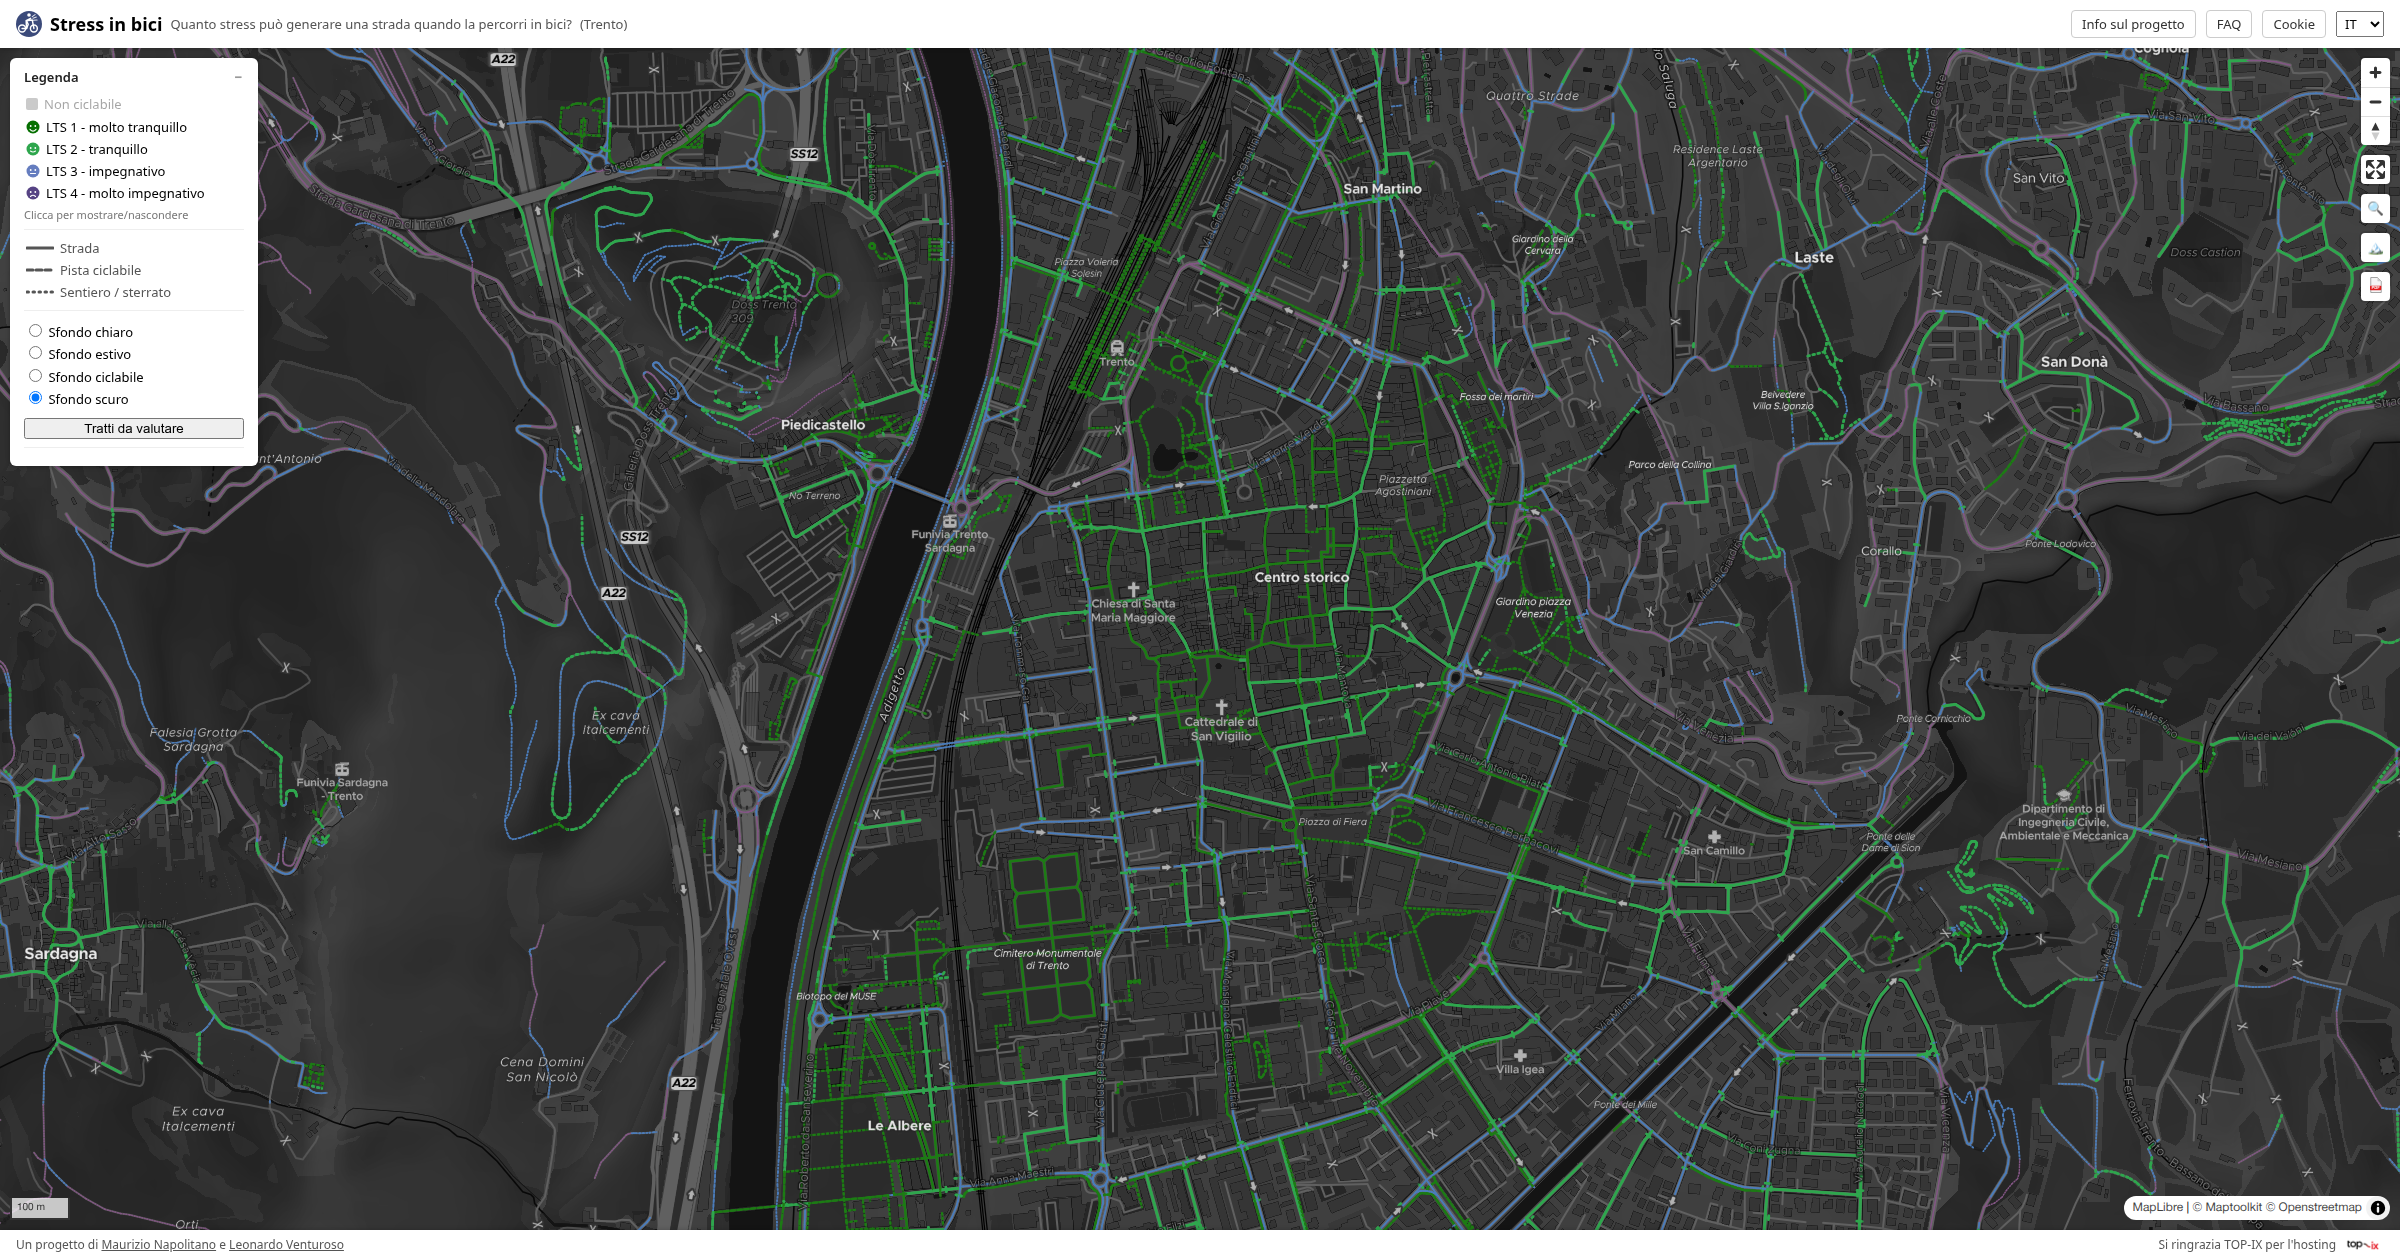
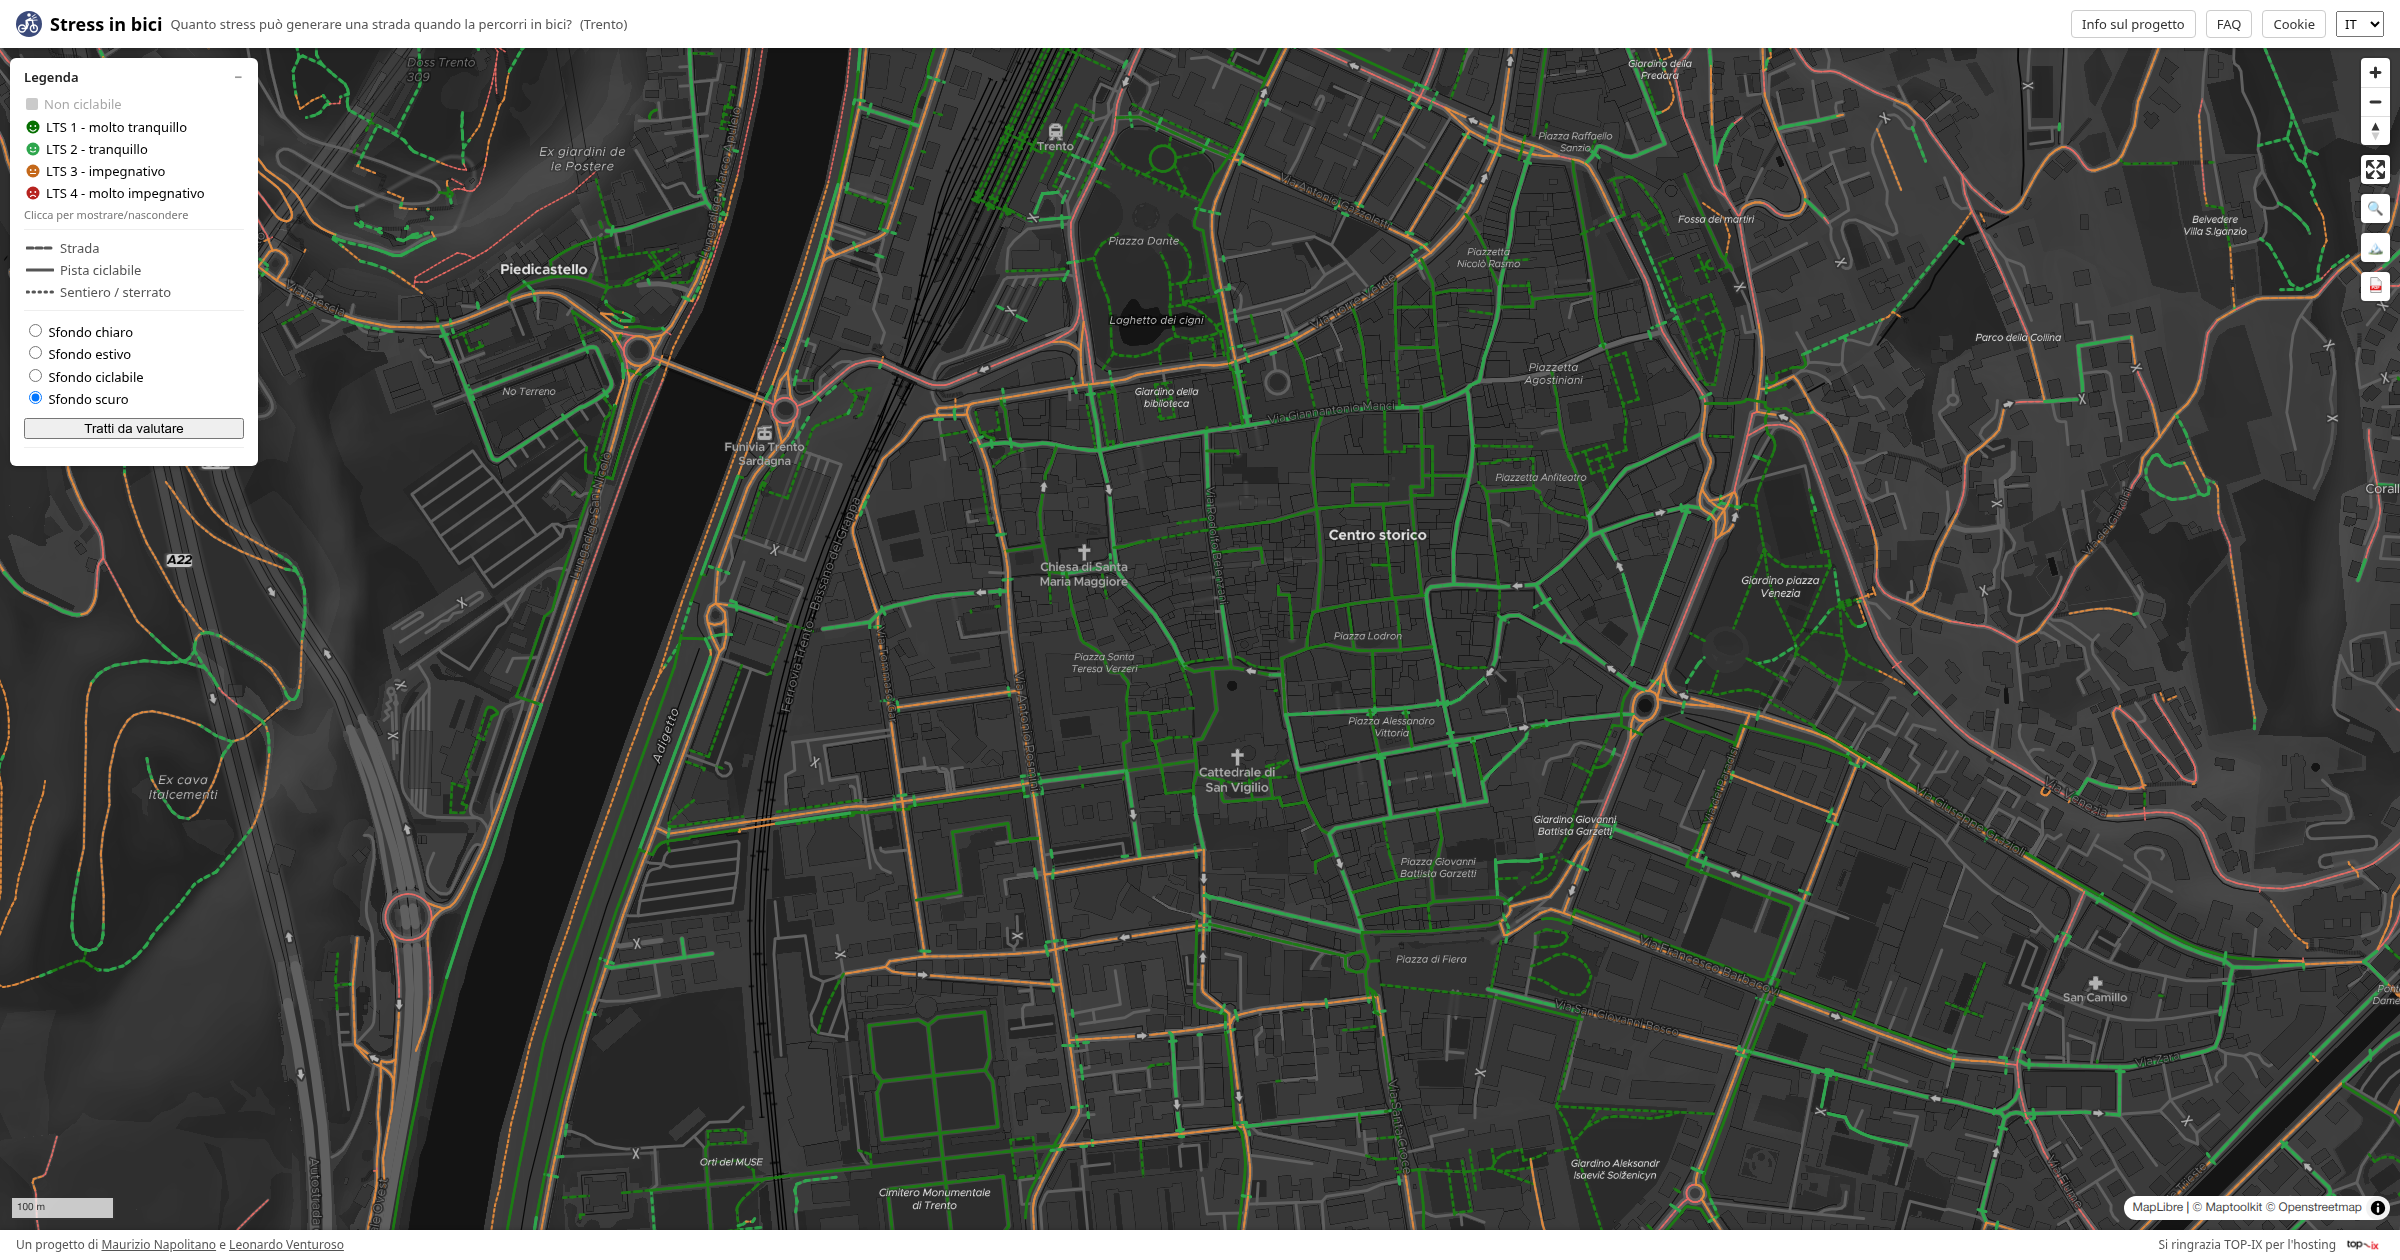
update

diff --git a/web/app.js b/web/app.js
@@ -659,44 +659,31 @@ document.querySelectorAll('input[name="basemap"]').forEach((radio) => {
 // I18N[currentLang].lts, so a language switch doesn't need to touch the
 // colours at all.
 //
-// Colorblind-safe (validated against simulated deuteranopia/protanopia/
-// tritanopia - see dataviz skill's validate_palette.js), and built as two
-// families rather than four independent hues: 1/2 are both green ("the
-// calm pair"), 3/4 are both purple ("the effortful pair") - deliberately
-// avoiding red for LTS4 since a lot of what lands there is a structural
-// street (a state road, a bridge) nobody's about to reroute, so "danger
-// red" reads as an alarm with no fix rather than "give this one a
-// separated bike/foot facility", which is the actual intervention.
-//
-// Green carries more chroma (~0.16) than purple (~0.105) on purpose: sRGB's
-// gamut is simply smaller in the green/teal region than in the blue-violet
-// one, so a purple and a green at the *same* nominal OKLCH chroma don't
-// read as equally vivid - the purple looks louder because it's using less
-// of its own headroom. Green is the answer to the map's actual question
-// ("where's it comfortable to bike"), so it gets pushed toward its gamut
-// ceiling to read as the protagonist; purple is kept closer to the chroma
-// floor so it recedes instead of competing for attention. (This replaced
-// an earlier version where 2 leaned teal and 3 leaned blue-violet so the
-// 2<->3 boundary would read as a continuum - that pulled 2 away from pure
-// green and capped how vivid it could get, which was the direct cause of
-// the imbalance; the boundary is now a full ΔE 23.9 apart, same as any
-// other adjacent pair.)
+// Traffic-light style green/green/orange/red, matching the reference
+// legend the map is meant to echo. Checked against simulated
+// deuteranopia/protanopia rather than assumed safe: a fully-saturated
+// orange+red pair (e.g. #E07C1C/#E4322F) collapses under red-green CVD -
+// LTS3 vs LTS4 drops to a simulated RGB distance of ~33-43, because orange
+// and red are hue-neighbours that both project onto the same remaining
+// blue-yellow axis. Darkening/desaturating both a step (LTS3 #C4681A,
+// LTS4 #B7231F) recovers most of that separation (~48-55 simulated) while
+// still clearing 3:1 contrast on white for all four classes. It's not as
+// safe as the blue/violet scheme this replaced, but it's a floor-band
+// pass rather than a fail, and the map has a second, colour-independent
+// channel for the same distinction: the face icons' mouth shape
+// (LTS_FACE_MOUTHS further down) still reads 1-4 correctly with no colour
+// vision at all.
 const LTS_COLORS = {
-  "1": "#056F00", "2": "#2EA64D", "3": "#657DBF", "4": "#564384", "0": "#6B6B6B",
+  "1": "#056F00", "2": "#2EA64D", "3": "#C4681A", "4": "#B7231F", "0": "#6B6B6B",
 };
 // Dark-basemap variants for the on-map line layer only (legend/popup/PDF
 // swatches always show the LTS_COLORS above, regardless of basemap - see
-// buildLtsLineColorExpression). "1" and "4" dip under 3:1 contrast against
-// the dark map style and need lightening; "2" and "3" already clear it
-// unswapped. 3 and 4 (both purple) additionally fight each other for room
-// in the dark style's narrower lightness band once 4 is lightened - nudging
-// 4's dark variant warmer (instead of lightening it in place at the same
-// hue) buys back ΔE 13.1 normal-vision / 8.3 CVD (a floor-band pass, not a
-// fail - legitimate here because of the same face-icon secondary encoding
-// as the 2<->3 note above, LTS_FACE_MOUTHS further down).
+// buildLtsLineColorExpression). All four of 1/3/4 dip under 3:1 contrast
+// against the dark map style's ~#3B3B3B background and need lightening;
+// "2" already clears it unswapped.
 const LTS1_DARK_COLOR = "#1C7B14";
-const LTS3_DARK_COLOR = "#4B7CBA";
-const LTS4_DARK_COLOR = "#835685";
+const LTS3_DARK_COLOR = "#E08A3E";
+const LTS4_DARK_COLOR = "#E86A64";
 const LTS_FALLBACK_COLOR = "#BDBDBD";
 
 // Progressive reveal of LTS classes by zoom, independent of (and applied on
@@ -871,8 +858,8 @@ function renderFacilityLegend() {
   const legend = document.getElementById("facility-legend");
   legend.innerHTML = "";
   const rows = [
-    { icon: facilityDashIcon("1000 0"), label: t("facilityStreet") },
-    { icon: facilityDashIcon("6 3"), label: t("facilityCycleway") },
+    { icon: facilityDashIcon("6 3"), label: t("facilityStreet") },
+    { icon: facilityDashIcon("1000 0"), label: t("facilityCycleway") },
     { icon: facilityDashIcon("1.5 4.5"), label: t("facilityPath") },
   ];
   for (const { icon, label } of rows) {
@@ -984,8 +971,13 @@ const LTS_LINE_WIDTH = [
 // Dasharray units are multiples of the line's own width (MapLibre style
 // spec), so the pattern scales automatically with LTS_LINE_WIDTH's own
 // zoom/LTS-based sizing - no separate zoom interpolation needed here.
-const FACILITY_SOLID_DASH = ["literal", [1, 0]];
-const FACILITY_CYCLEWAY_DASH = ["literal", [2, 1]];
+// Solid = a real physically-separated facility (dedicated cycleway);
+// dashed = an ordinary street ridden in mixed traffic, the ambient
+// default. Matches the reference legend's convention (and standard
+// cartographic practice) - previously inverted, with the default street
+// case drawn solid and the cycleway case dashed.
+const FACILITY_CYCLEWAY_DASH = ["literal", [1, 0]];
+const FACILITY_STREET_DASH = ["literal", [2, 1]];
 const FACILITY_PATH_DASH = ["literal", [0.5, 1.5]];
 const FACILITY_CYCLEWAY_RULES = ["literal", ["s3", "s7", "s8"]];
 const FACILITY_PATH_RULES = ["literal", ["s1", "s2"]];
@@ -1002,7 +994,7 @@ const FACILITY_DASH_EXPRESSION = [
     ["in", ["get", "rule"], FACILITY_PATH_RULES],
   ],
   FACILITY_PATH_DASH,
-  FACILITY_SOLID_DASH,
+  FACILITY_STREET_DASH,
 ];
 
 const GAP_EDGE_WIDTH = 4;
